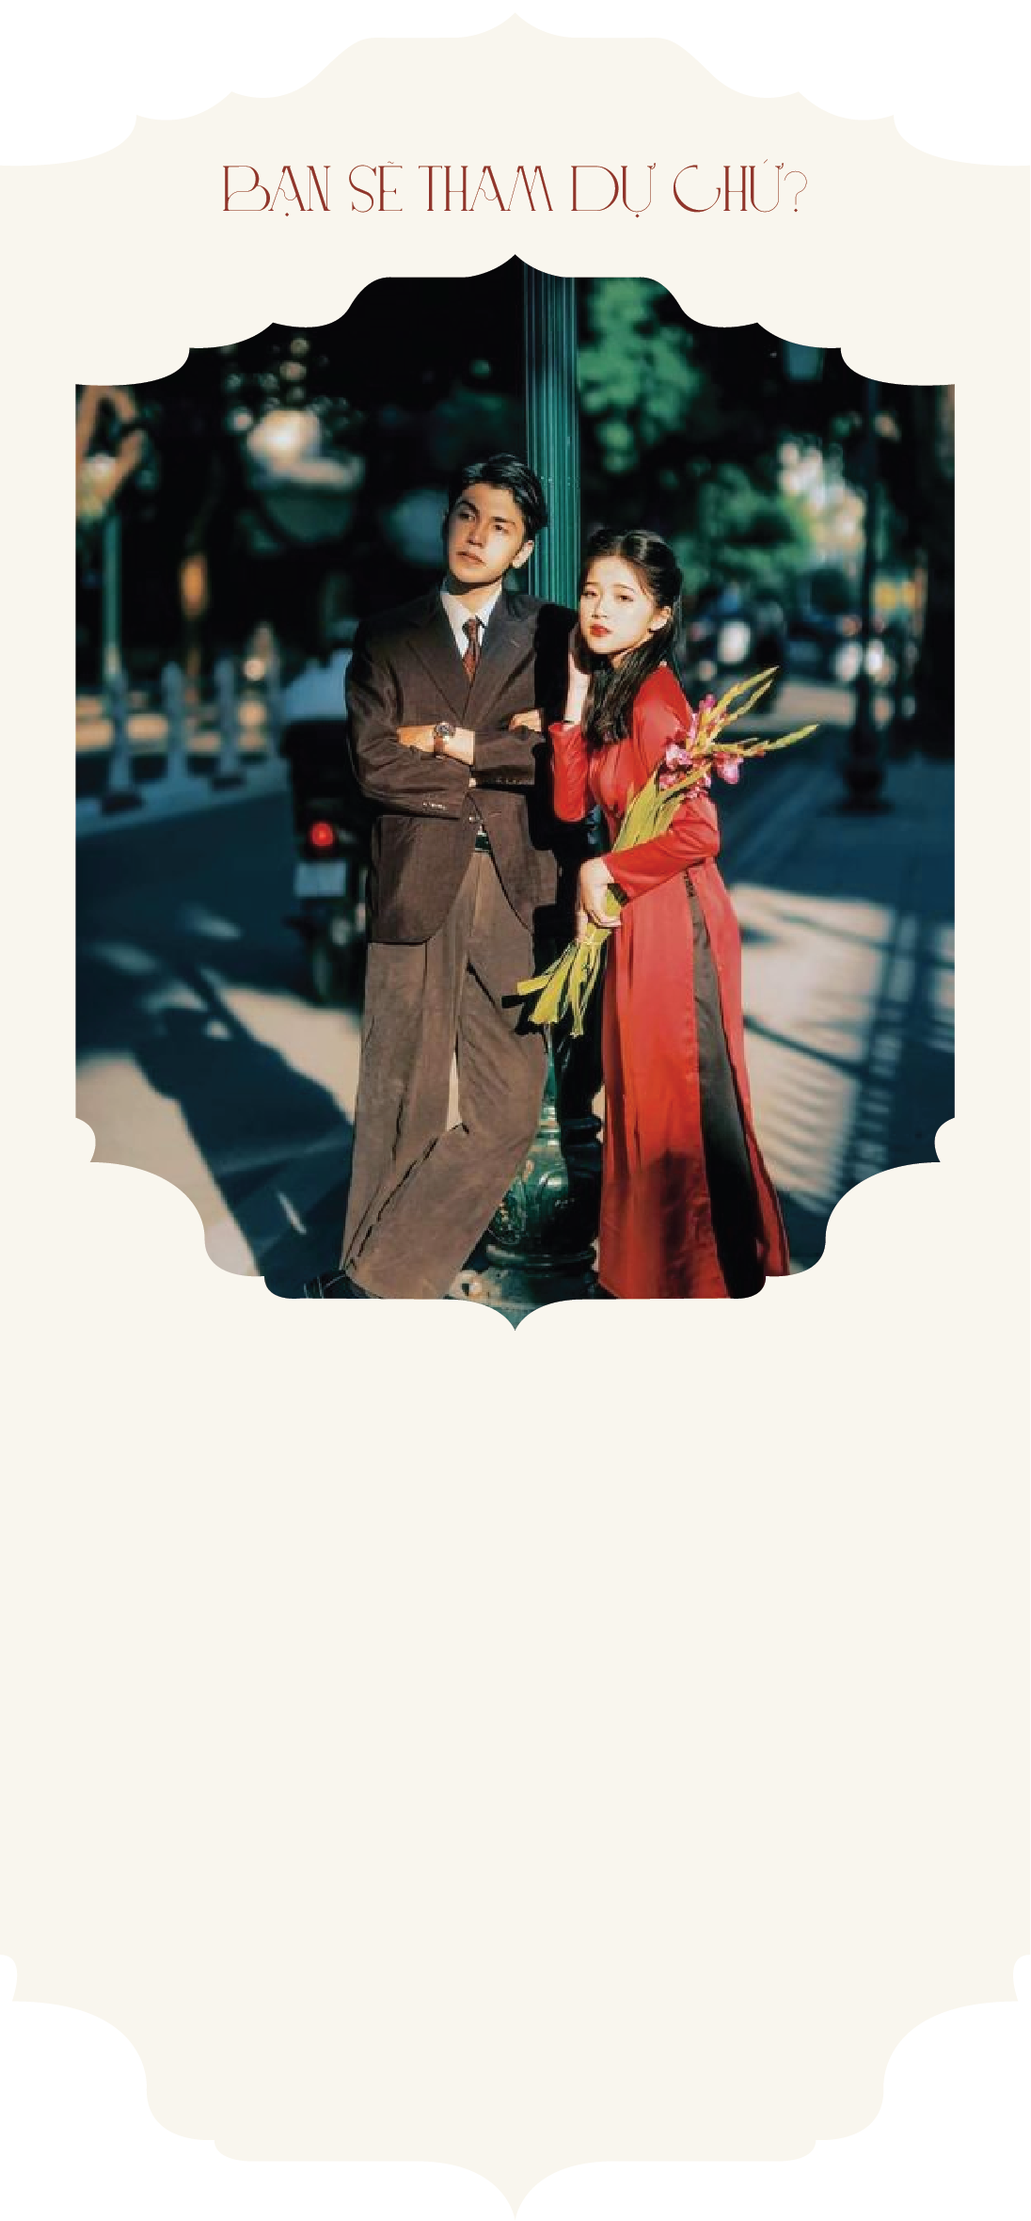
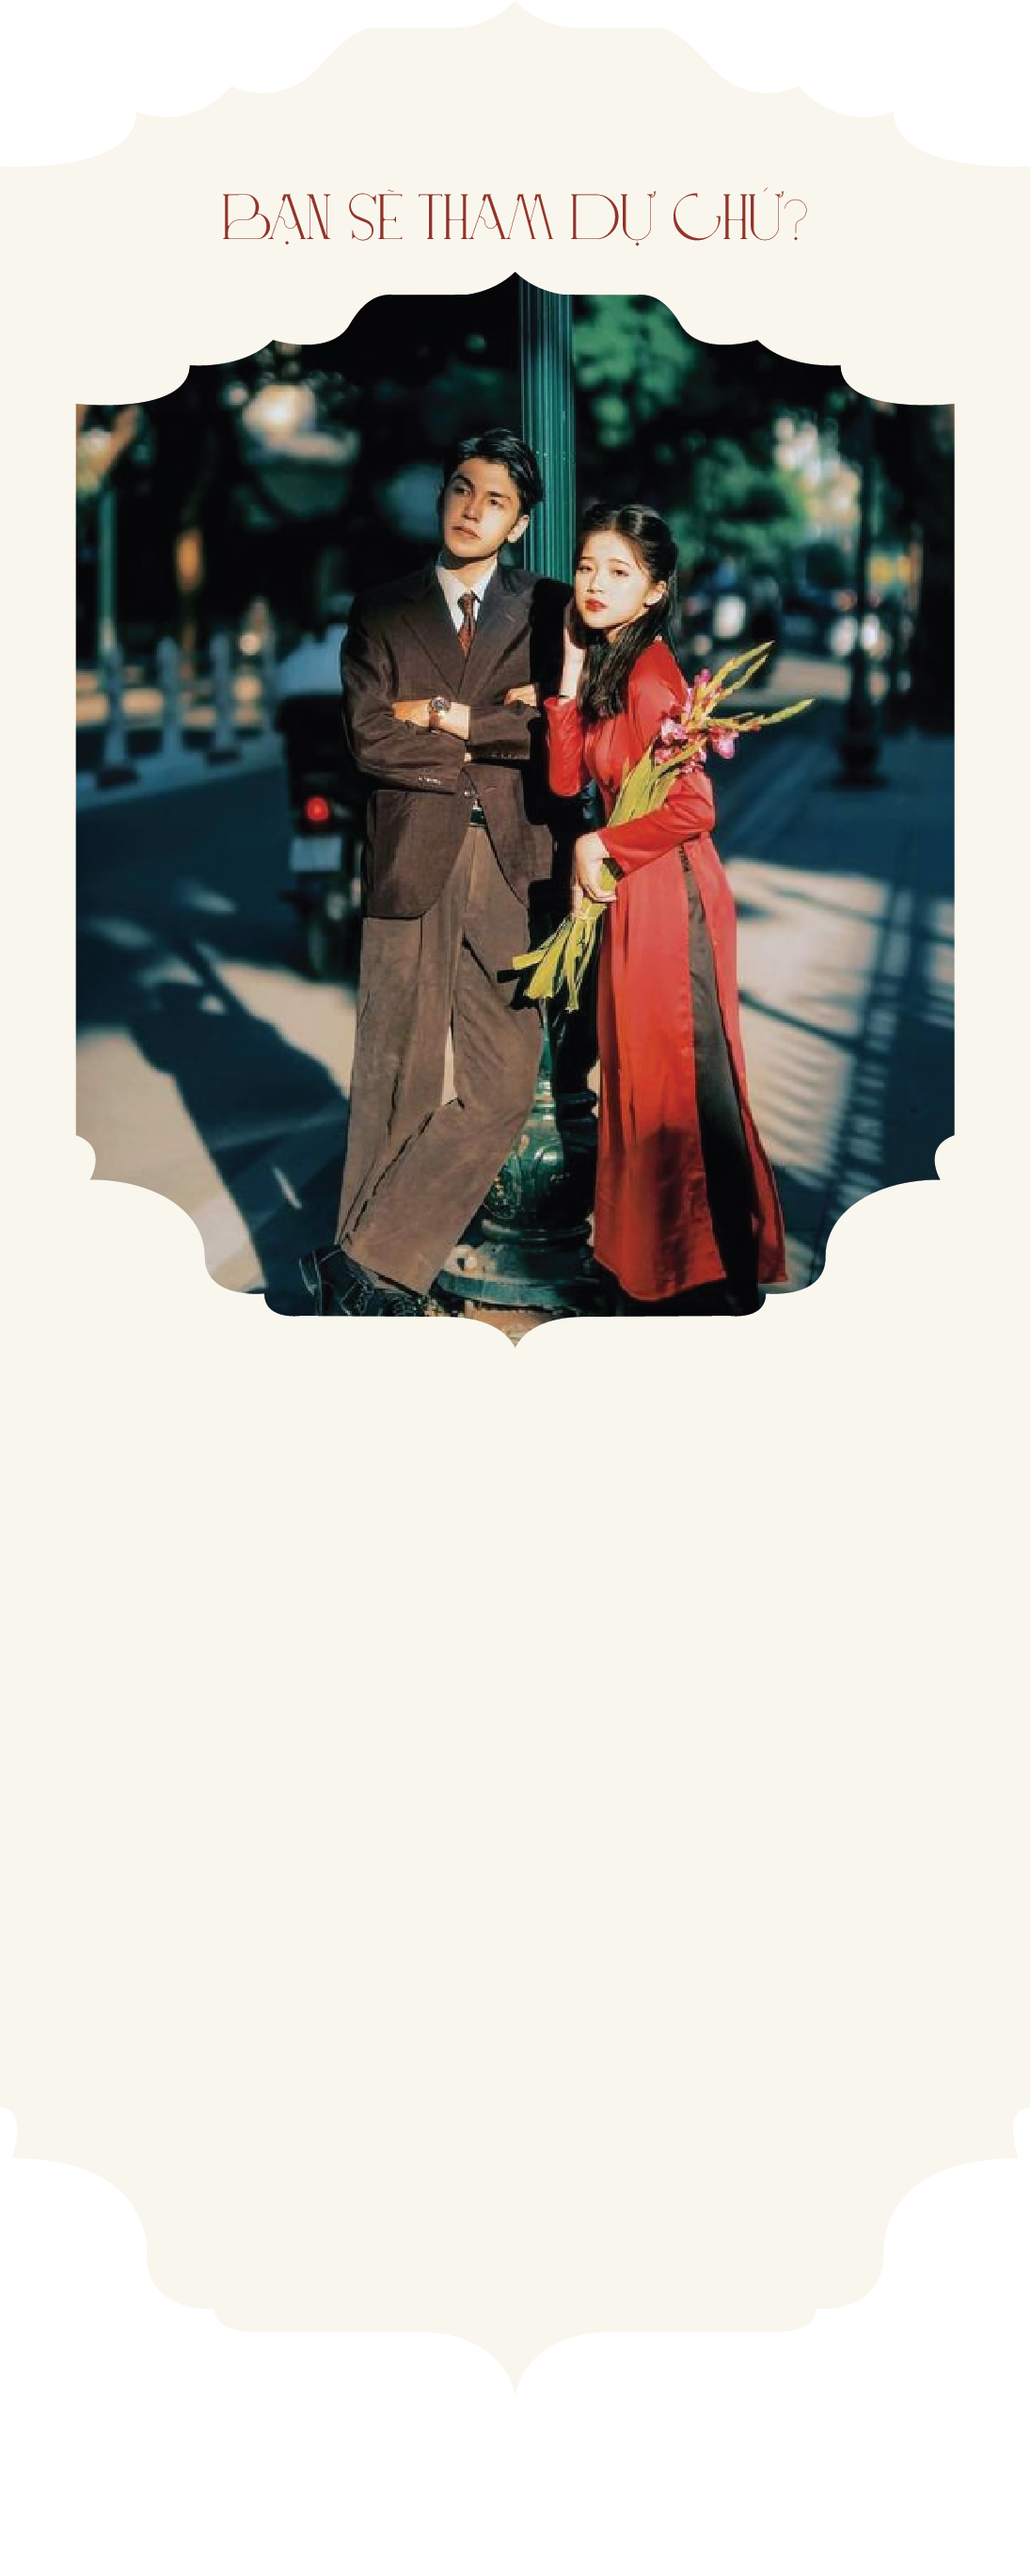
update

Changed region(s): [[0.062, 0.0619, 0.9307, 0.6186], [0.2172, 0.0619, 0.2792, 0.0928]]

diff --git a/thiep/xacnhan.css b/thiep/xacnhan.css
@@ -573,7 +573,7 @@ hr{
   font-weight: 300;
   font-family: 'SVN-Gotham';
   padding: 10px;
-  margin-top: 550px;
+  margin-top: 500px;
 }
 
 .til{
@@ -638,7 +638,6 @@ hr{
 border-radius: 20px;
 width: 100px;
 flex: 1;
-max-width: 100%;
 }
   
 .box-check{
@@ -1103,7 +1102,7 @@ textarea{
     width: 50px;
   }
   .feed-info{
-    margin: 130px 0 20px 0;
+    margin: 120px 0 20px 0;
     line-height: 15px;
   }
   .in-fe{
